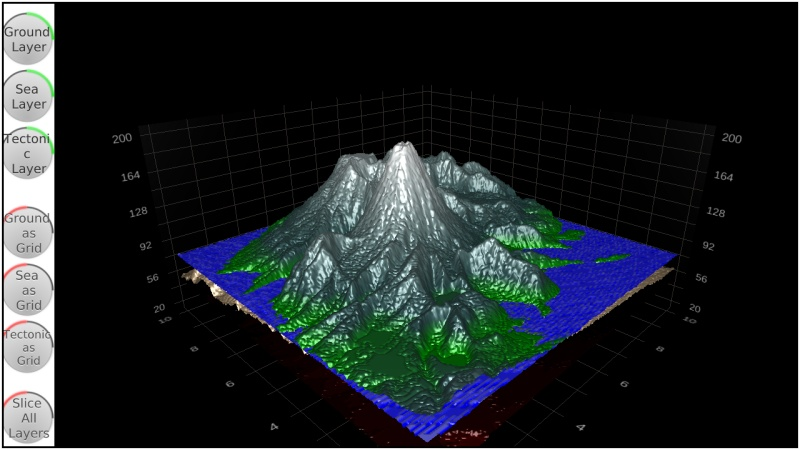
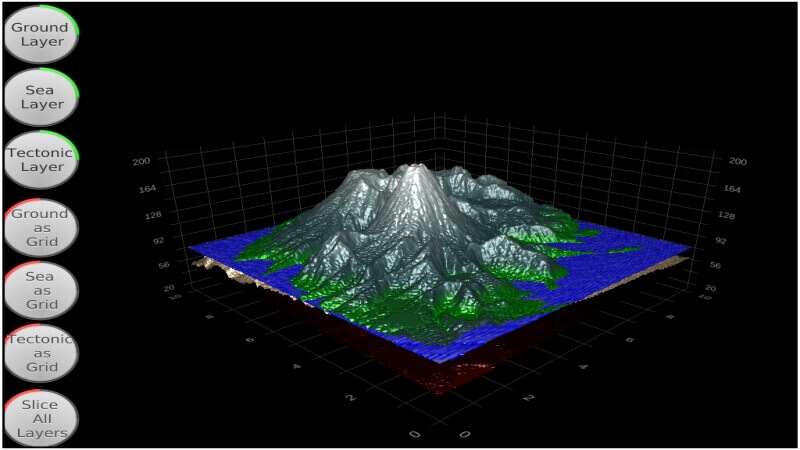
Improve qt datavis demo
For now just minor changes, plan is to replace the buttons
with more fancy stuff

Task-number: QTRD-3782

diff --git a/basicsuite/enterprise-qtdatavis3d/main.qml b/basicsuite/enterprise-qtdatavis3d/main.qml
@@ -27,10 +27,6 @@ import "."
 Item {
     id: mainview
 
-    function toPixels(percentage) {
-        return percentage * Math.min(mainview.width, mainview.height);
-    }
-
     Item {
         id: surfaceView
         width: mainview.width - buttonLayout.width
@@ -123,6 +119,7 @@ Item {
         anchors.left: parent.left
         anchors.bottom: parent.bottom
         spacing: 0
+        property int buttonWidth: Math.min(engine.centimeter(3), parent.height/7 - engine.mm(2))
         Column {
             Layout.fillWidth: true
             spacing: 5
@@ -130,7 +127,7 @@ Item {
                 id: layerOneToggle
                 text: "Ground\n Layer"
                 checked: true
-                width: toPixels(0.12)
+                width: buttonLayout.buttonWidth
                 height: width
                 style: ToggleButtonStyle { }
             }
@@ -139,7 +136,7 @@ Item {
                 id: layerTwoToggle
                 text: "Sea\n Layer"
                 checked: true
-                width: toPixels(0.12)
+                width: buttonLayout.buttonWidth
                 height: width
                 style: ToggleButtonStyle { }
             }
@@ -148,7 +145,7 @@ Item {
                 id: layerThreeToggle
                 text: "Tectonic\n Layer"
                 checked: true
-                width: toPixels(0.12)
+                width: buttonLayout.buttonWidth
                 height: width
                 style: ToggleButtonStyle { }
             }
@@ -160,7 +157,7 @@ Item {
             ToggleButton {
                 id: layerOneGrid
                 text: "Ground\n as\n Grid"
-                width: toPixels(0.12)
+                width: buttonLayout.buttonWidth
                 height: width
                 style: ToggleButtonStyle { }
                 onCheckedChanged: {
@@ -174,7 +171,7 @@ Item {
             ToggleButton {
                 id: layerTwoGrid
                 text: "Sea\n as\n Grid"
-                width: toPixels(0.12)
+                width: buttonLayout.buttonWidth
                 height: width
                 style: ToggleButtonStyle { }
                 onCheckedChanged: {
@@ -188,8 +185,9 @@ Item {
             ToggleButton {
                 id: layerThreeGrid
                 text: "Tectonic\n as\n Grid"
-                width: toPixels(0.12)
+                width: buttonLayout.buttonWidth
                 height: width
+
                 style: ToggleButtonStyle { }
                 onCheckedChanged: {
                     if (checked)
@@ -206,7 +204,7 @@ Item {
             ToggleButton {
                 id: sliceButton
                 text: "Slice\n All\n Layers"
-                width: toPixels(0.12)
+                width: buttonLayout.buttonWidth
                 height: width
                 style: ToggleButtonStyle { }
                 onClicked: {
